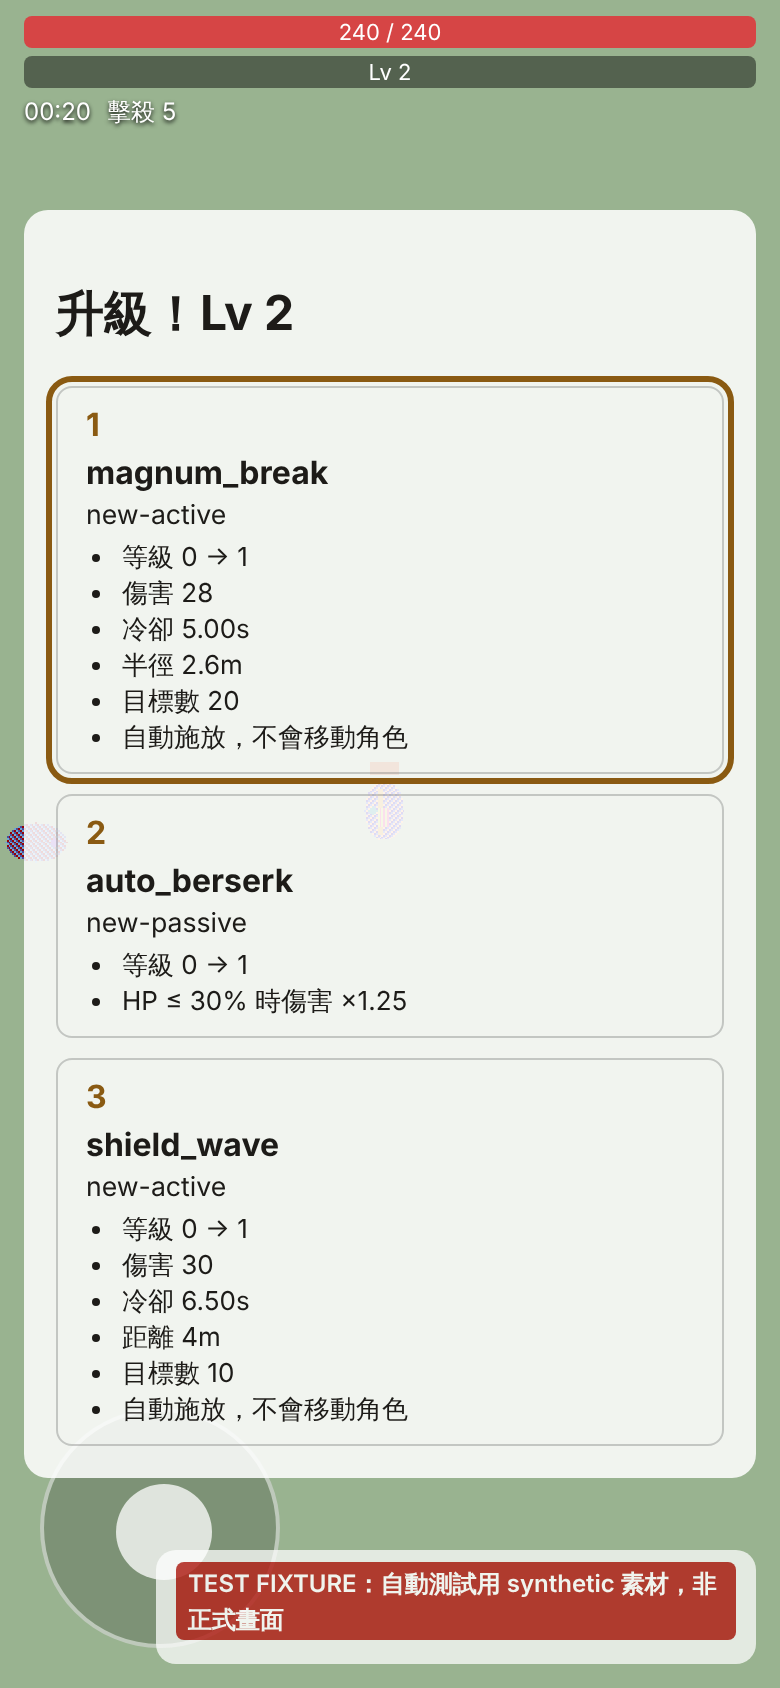
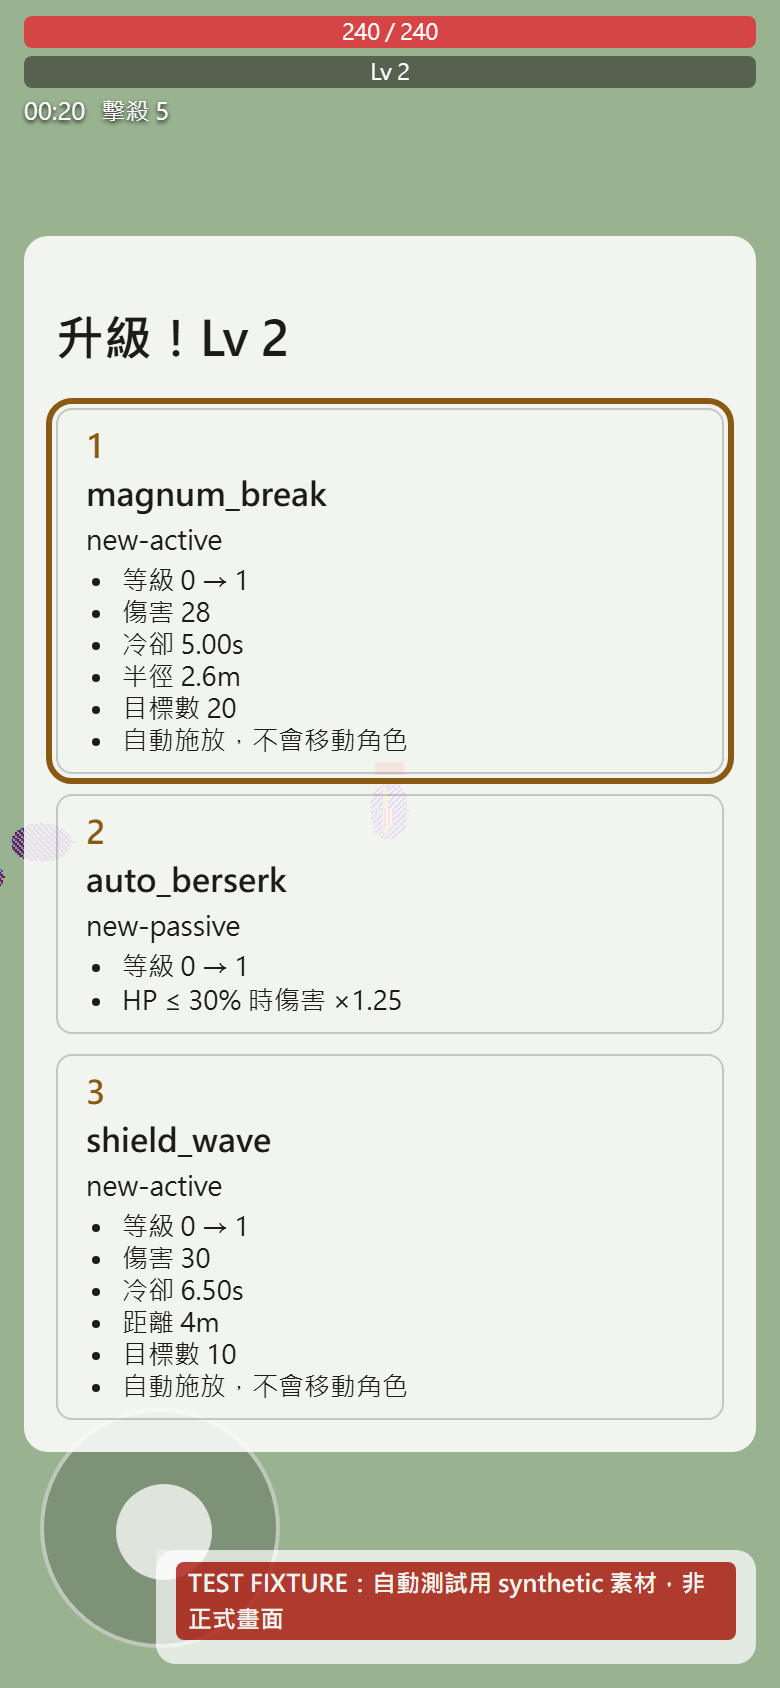
docs: record formal draft acceptance

diff --git a/DECISIONS.md b/DECISIONS.md
@@ -36,3 +36,4 @@
 | D-032 | 2026-11-18 | **Survivors skill exception and all-job balance gate.** D-022 remains mandatory for characters, monsters/MVPs, NPCs, maps, formal UI, BGM/SFX and every non-skill scene asset. Only a skill's Survivors-specific mechanics and visible skill VFX (effect sprite/animation, projectile, impact and ground effect) may use `original-project-owned` assets when an original RO effect cannot honestly express the redesigned behaviour. Such assets must be authored for this project, carry provenance in the asset manifest, use RO-compatible pixel density, palette, silhouette/readability and nearest-neighbour presentation, and be labelled as a fan-game adaptation rather than official RO material; AI-generated assets and copied RO Survivors/HANS assets remain forbidden. RO skill names and official icons may be retained where semantically honest, while mechanics and numbers remain this project's versioned design. Every playable job must have an area-clear path within its first 60 seconds and pass the standard multi-seed gate; balance is reviewed across clear speed, single-target/MVP damage, survivability, mobility and control so jobs remain distinct without any job being unable to handle survivor mob density. | User rule (2026-11-18): ordinary RO combat cannot simply be reused for a survivor spawn density, but the result must remain recognisably RO. This supersedes only D-025's visible skill-art rule; telegraph geometry and non-skill gameplay overlays keep their existing contract, and D-022 remains unchanged for the world, actors, UI and audio. | Requiring every skill to reuse an unrelated RO effect; making all jobs numerically identical; allowing original substitutes throughout the formal screen (all rejected). |
 | D-033 | 2026-11-18 | Cursor hotspots are pointer-origin offsets derived from the first visible ACT layer: `round(frameSize/2 - layerOffset)`. They are signed and may lie outside the sprite rectangle; the formal loader accepts them only when every action is present exactly once and the value equals the pinned ACT-derived result. | The pinned `cursors.act` legitimately places several pointer origins outside their frame (for example the lock action). Rectangle-bounds validation rejected original RO data even though the ACT relationship was exact. | Clamping to the frame; hard-coded hotspot tables; accepting arbitrary offsets (all rejected). |
 | D-034 | 2026-11-18 | **Fast-path first HUD, without a false pixel-identical claim.** D-030's wait is superseded only for the visible in-run subset: after the pinned 108-row UI registry passed real-local hash/dimension checks, the client may compose BasicInfo, gauges, Shortcut, skill icons and Survivors status text from verified original RO rasters in an explicitly `ORIGINAL-DESIGN` responsive layout. Raster scale remains native/integer, fonts come from the pinned client, missing UI fails closed, and formal builds hide developer HUD and drawn joystick art. Profile status and original-client placement metrics stay `DISCOVERED` / `DEFERRED_LOCAL`; exact placement, remaining windows and “almost identical” acceptance still require reference capture and review. | User requested a faster route with the same RO visual objective and support for phone/tablet/desktop. This creates a playable all-original-pixel HUD now without pretending unmeasured coordinates are official. | Waiting to display any UI despite verified pixels; inventing CSS skins; labelling the responsive composition pixel-identical (all rejected). |
+| D-035 | 2026-11-18 | **Survivors draft window uses verified original RO chrome in an original responsive composition.** The level-up/keystone draft may combine the official title strip, the neutral `ui.chat.window.left/mid/right` strip, official skill icons, `ui.slot.selection` only as a selection marker, and all four exact three-slice RO button states. This semantic reuse is marked `official-chat-window-as-survivor-draft`; it is not represented as an original RO dialog. Formal mode never uses the CSS card/modal surface, while the separately labelled synthetic fixture keeps the generic UI for automation. | A survivor choice screen has no direct ordinary-RO equivalent, but the user requires an RO-looking interface on phone, tablet and desktop. Reusing neutral original chrome gives the required visual language without fabricating a skin or mislabelling a copied screen. | `ui.chat.window.background` (contains unrelated Korean labels); using `ui.slot.selection` as a card frame; CSS/AI-created panels; claiming pixel-identical placement (all rejected). |

diff --git a/reports/phase1/UI-B4-DRAFT-LOCAL-ACCEPTANCE.md b/reports/phase1/UI-B4-DRAFT-LOCAL-ACCEPTANCE.md
@@ -1,0 +1,55 @@
+# UI-B4 real-local draft acceptance
+
+Date: 2026-11-18 (Asia/Taipei)
+Result: **LOCAL_PASS — first formal level-up/keystone draft composition**
+
+This gate used the pinned KRO 2021 client through the loopback gateway. No RO raster, font or derived local
+asset is committed. The synthetic build was used only for interaction regression tests and remains labelled
+`TEST FIXTURE`.
+
+## Visible asset contract
+
+- Every panel pixel comes from `ui.window.title.left/mid/right` or
+  `ui.chat.window.left/mid/right`.
+- Every action button validates and displays the exact
+  `ui.button.{normal,hover,pressed,disabled}.{left,mid,right}` family; source pixels are tiled at integer
+  scale and never stretched.
+- Choice icons are the verified original RO skill icons. Heal/guardian/weapon/fury have explicit semantic
+  mappings; an unknown future choice displays no icon instead of substituting an unrelated image.
+- `ui.slot.selection` is used only as the official selection marker, never as a card/window frame.
+- The neutral chat strip reuse is exposed as
+  `data-ro-semantic-reuse="official-chat-window-as-survivor-draft"`. This is an original responsive
+  fan-game layout, not a pixel-identical RO dialog claim.
+- Formal draft markup does not enter the generic `.modal` / `.card` CSS surface path.
+
+## Responsive browser measurements
+
+All measured title strips, 300×84 choice bodies and 88×40 integer-scaled buttons were inside the viewport.
+
+| Viewport | Layout | Measured choice rectangles | Overflow |
+| --- | --- | --- | --- |
+| 1024×768 desktop | three columns | `(58,344)`, `(362,344)`, `(666,344)`, each 300×101 | no |
+| 390×844 phone portrait | vertical | y = 277 / 382 / 487, each 300×101; buttons 88×40 | no |
+| 768×1024 tablet portrait | vertical | y = 367 / 472 / 577, each 300×101 | no |
+| 844×390 phone landscape | vertical low-height | y = 50 / 155 / 260, each 300×101 | no |
+
+The first mobile pass exposed a flex-basis error (300 px became card height in column mode); the media rule now
+sets the vertical basis to 101 px, and all four viewports were re-measured after the fix.
+
+## Operation and regression evidence
+
+- Real-local browser: number key `2` chose the second option and resumed combat; pointer click chose the third
+  option on the next level and resumed combat. Console error count: 0.
+- Test-fixture end-to-end gate: key, touch tap, gamepad A/B and keyboard movement all pass; settlement remains
+  exactly once after reload.
+- `pnpm ci:local`: 36 test files / 378 tests, production build, rights scan, 17 synthetic files / 183 tests,
+  and all 23 handoff checks pass.
+- `pnpm e2e:smoke` with the benchmark skipped: A formal/no gateway, B formal/refuses fixture, C full fixture
+  flow, D explicit skip and E bundle separation all report PASS.
+
+## Still open
+
+- Profile `KRO2021_CLASSIC_V0_FAN` remains `DISCOVERED`; exact original-client coordinates remain
+  `DEFERRED_LOCAL`. This gate does not claim the dialog is pixel-identical to an official screen.
+- Title, character/stage selection and results screens still need the same formal-raster treatment.
+- Physical phone/tablet human play and exact font/reference capture review remain open.

diff --git a/STATUS.md b/STATUS.md
@@ -7,12 +7,14 @@ full extraction and formal desktop/mobile browser smoke passed on 2026-11-18. Th
 `prt_fild08` GND/RSM/water, four-layer Swordsman, 12 monster sets, official shadow and original audio, with no
 placeholder fallback. Derived files and screenshots remain ignored under `.local-assets` / `reports/local`.
 
-RO UI is still **in progress**, with the first visible run HUD now **LOCAL_PASS** (`reports/phase1/UI-B3-LOCAL-ACCEPTANCE.md`).
+RO UI is still **in progress**, with the first visible run HUD and the formal level-up/keystone draft now
+**LOCAL_PASS** (`reports/phase1/UI-B3-LOCAL-ACCEPTANCE.md`, `reports/phase1/UI-B4-DRAFT-LOCAL-ACCEPTANCE.md`).
 All 108 original UI assets are locally verified and extracted; formal loading now installs the original client fonts
-and renders BasicInfo, HP/XP gauges, Shortcut, skill icons and status/Boss strips from verified rasters. Desktop,
-phone portrait, tablet portrait and landscape viewports stay within bounds; formal mode hides developer HUD and drawn
-joystick art. Profile `KRO2021_CLASSIC_V0_FAN` remains `DISCOVERED` and exact original-client placement metrics remain
-`DEFERRED_LOCAL`; title/selection/draft/results windows are not RO-complete and no pixel-identical claim is made.
+and renders BasicInfo, HP/XP gauges, Shortcut, skill icons, status/Boss strips, choice panels and four-state buttons
+from verified rasters. Desktop, phone portrait, tablet portrait and landscape viewports stay within bounds; formal
+mode hides developer HUD and drawn joystick art. Profile `KRO2021_CLASSIC_V0_FAN` remains `DISCOVERED` and exact
+original-client placement metrics remain `DEFERRED_LOCAL`; title, character/stage selection and results windows are
+not RO-complete and no pixel-identical claim is made.
 
 ## Phase 2 (cloud) — summary
 
@@ -57,7 +59,10 @@ Details, gates and local commands: `reports/phase1/PHASE1-ACCEPTANCE.md`; perfor
 | 250 enemies @60 FPS desktop / phone 30 FPS | Emulated 4x CPU at 30 FPS: pass · real GPU / phone DEFERRED_LOCAL |
 | Derived files only in `.local-assets` | CLOUD_PASS (marker + rights:check tests) |
 
-Latest code gate on Windows: `pnpm ci:local` passed with 35 test files / 372 tests, 17 synthetic files / 183 tests, `rights:check` PASS and 23/23 handoff checks. GitHub Actions run #45 for `a449dd0` also succeeded: <https://github.com/sojungle8/Ok/actions/runs/44215678107>.
+Latest code gate on Windows: `pnpm ci:local` passed with 36 test files / 378 tests, 17 synthetic files / 183 tests,
+`rights:check` PASS and 23/23 handoff checks. The full browser gate also passed formal blocking/refusal and the
+fixture key/touch/gamepad/settlement flow. GitHub Actions for this uncommitted increment is pending; the prior docs
+baseline run #46 succeeded: <https://github.com/sojungle8/Ok/actions/runs/44216255369>.
 
 ---
 

diff --git a/RISKS.md b/RISKS.md
@@ -20,5 +20,5 @@
 | R-16 | Windows-only failures (CRLF checkouts, process signalling, file locks) not visible on Linux CI. | Local delivery breaks on the user's machine. | `.gitattributes` for byte-compared files; tests run in a `core.autocrlf=true` clone; a Windows clone re-run of `pnpm ci:local` is required before delivery or merge (Codex condition). |
 | R-17 | **Resolved for the pinned client.** D-022 previously blocked the arena on missing GND/RSM dependencies. | — | 282/282 real-local audit, extraction and desktop/mobile formal-screen smoke passed on 2026-11-18. |
 | R-18 | Balance verified only with a scripted bot; humans may find it easier or harder, and fury is clearly strongest (10/10). | Mis-tuned difficulty. | Tuning layer is explicit (D-024); next pass after human playtests. |
-| R-19 | Formal Phase 2 now has a real-RO world and first verified-raster HUD, but the reference profile is not placement-locked and menus/modals plus human device play remain open. | A real-asset screenshot can still overstate full UI completion or gameplay comfort. | UI-B3 reports only its exact subset and four browser viewports; finish remaining verified-raster screens, reference-capture comparison and physical phone/tablet/desktop tests before claiming the game UI complete. |
+| R-19 | Formal Phase 2 now has a real-RO world, verified-raster HUD and survivor draft, but the reference profile is not placement-locked and the title/selection/results screens plus human device play remain open. | A real-asset screenshot can still overstate full UI completion or gameplay comfort. | UI-B3/UI-B4 report only their exact subsets and four browser viewports; finish remaining verified-raster screens, reference-capture comparison and physical phone/tablet/desktop tests before claiming the game UI complete. |
 | R-20 | Audio playback untested: only BGM/12.mp3 is whitelisted; no SE, town or boss BGM. | No sound in formal play. | Mixer rules (buses, voice limits, critical boss warnings) unit-tested; GAP-004 lists the needed audio assets. |

diff --git a/docs/product-plan/ui/README.md b/docs/product-plan/ui/README.md
@@ -2,8 +2,9 @@
 
 Status: **RO UI reference/implementation in progress.** Profile `KRO2021_CLASSIC_V0_FAN` is `DISCOVERED`; exact
 original-client placement becomes `LOCKED` only after reference-capture review. D-034 now permits a first playable
-`ORIGINAL-DESIGN` responsive HUD composed only from the locally verified original rasters; it must not be described
-as pixel-identical. Local evidence: `reports/phase1/UI-B3-LOCAL-ACCEPTANCE.md`.
+`ORIGINAL-DESIGN` responsive HUD, and D-035 permits the survivor draft composition, both using only locally verified
+original rasters; neither may be described as pixel-identical. Local evidence:
+`reports/phase1/UI-B3-LOCAL-ACCEPTANCE.md` and `reports/phase1/UI-B4-DRAFT-LOCAL-ACCEPTANCE.md`.
 
 | File | Content |
 | --- | --- |
@@ -56,5 +57,5 @@ Any failure lists asset ID + container + canonical CP949 path.
 ## Remaining decisions / measurements
 
 See `undecided` in the profile: UI-Q1 tooltip surface, UI-Q2 status/inventory/skill windows and UI-Q3 exact font
-metrics still need a reference capture. D-034 resolves the first-pass UI-Q4 composition only: timer/kills/Boss status
-may use original title/gauge rasters in an original responsive layout. Recorded decisions: D-028…D-030, D-034.
+metrics still need a reference capture. D-034 resolves the first-pass UI-Q4 HUD composition; D-035 records the
+survivor-draft semantic reuse of neutral original chrome. Recorded decisions: D-028…D-030, D-034…D-035.

diff --git a/CHANGELOG.md b/CHANGELOG.md
@@ -151,6 +151,11 @@
 - Flow state machine, run results, transactional settlement (`4e63988`); input adapters, automated acceptance (`30dae38`).
 - Client game flow, run renderer, settlement UI, mixer rules (`6f310d9`); fix: the run no longer restarts on phase
   changes; compact in-run header; browser flow e2e (`reports/phase2/`).
+- Formal level-up/keystone draft: verified original RO title/chat strips, semantic original skill icons, official
+  selection marker and four-state three-slice buttons; responsive real-local checks at desktop, phone, tablet and
+  phone-landscape sizes. Generic draft UI remains test-fixture-only.
+- Windows e2e runner now executes the exact invoking pnpm CLI through Node 24 instead of attempting to spawn a
+  `.cmd` shim with `execFileSync`.
 
 ## Unreleased — Phase 1 cloud spike (2026-11-17)
 
